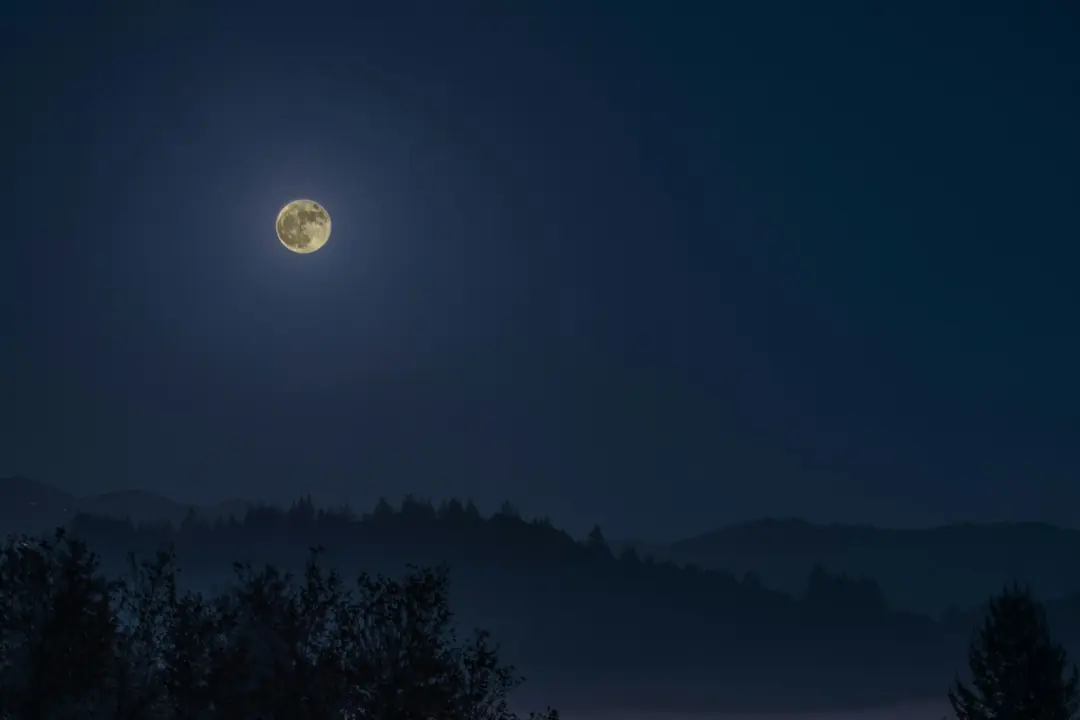
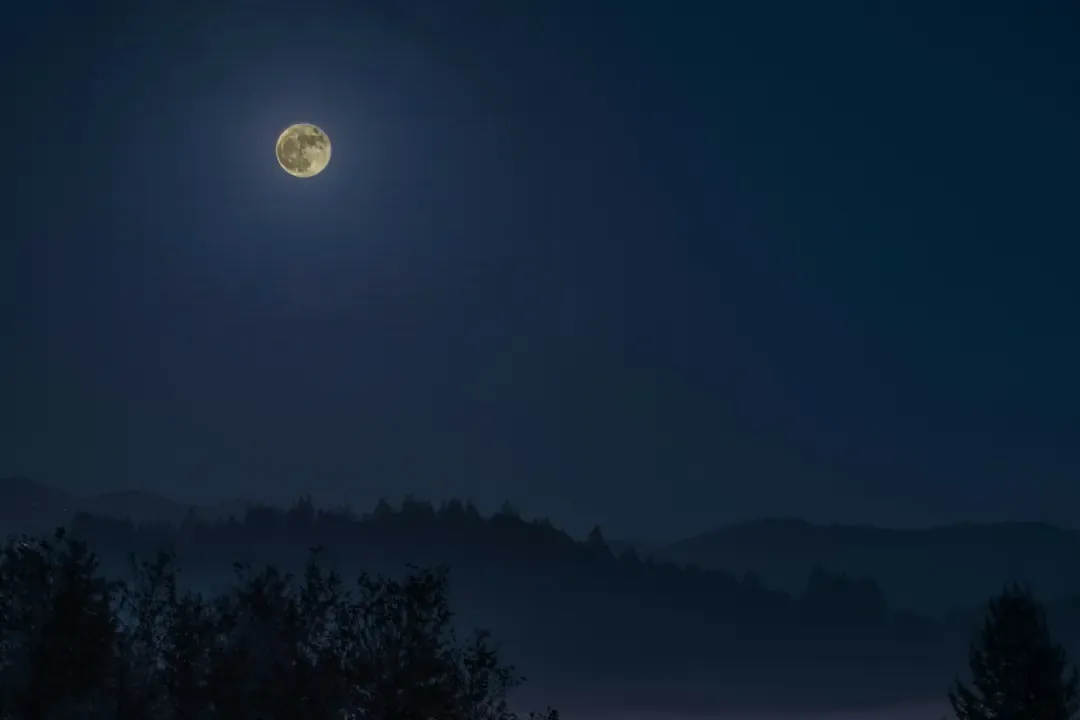
메인기도목록달개선

Changed region(s): [[0.2444, 0.275, 0.3361, 0.3667], [0.2444, 0.1528, 0.3361, 0.2444]]

diff --git a/frontend/src/pages/Home/components/DailyMeditationCard.tsx b/frontend/src/pages/Home/components/DailyMeditationCard.tsx
@@ -386,6 +386,7 @@ const DailyMeditationCard = ({ onWriteMeditation }: DailyMeditationCardProps) =>
          * 이미지는 ::before 레이어에서 하단 마스크로 카드 배경에 녹아든다 (Apple TV/Netflix식 페이드) */}
         <div
           className="meditation-hero"
+          data-hero={`${naturalSeason}-${heroSlot}`}
           style={{ '--hero-image': `url(${HERO_IMAGES[naturalSeason][heroSlot]})` } as React.CSSProperties}
         >
           <div className="meditation-hero-overlay" aria-hidden />

diff --git a/frontend/src/pages/Home/components/styles/meditation-card-hero.css b/frontend/src/pages/Home/components/styles/meditation-card-hero.css
@@ -59,6 +59,12 @@
   );
 }
 
+/* 가을 밤 보름달은 사진 위쪽(21%)에 있다 — 넓은 PC 카드(cover가 위아래를 자름)에서도
+ * 달이 잘리지 않게 위쪽을 더 보여준다. 모바일은 세로 여유가 없어 영향 없음. */
+.meditation-hero[data-hero='autumn-night']::before {
+  background-position: center 25%;
+}
+
 .meditation-hero-overlay {
   position: absolute;
   inset: 0;
